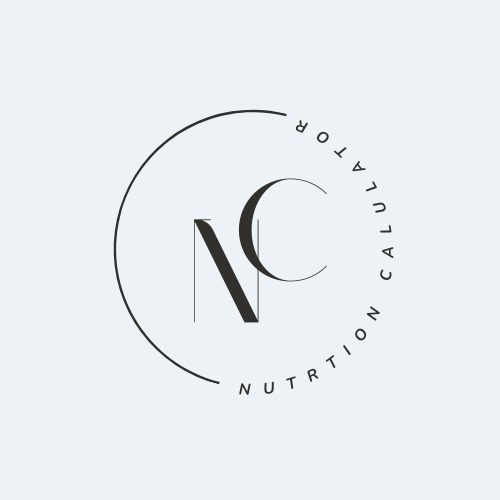
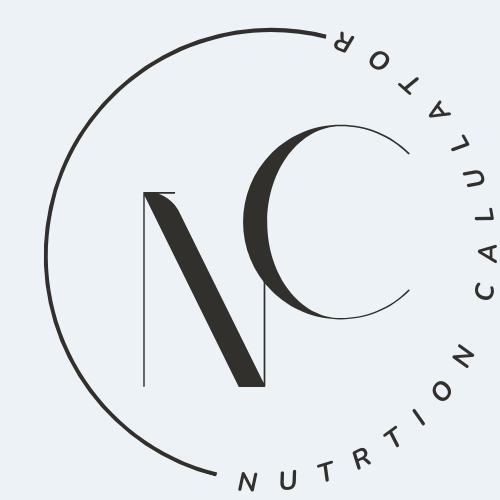
fixed popover

diff --git a/frontend/src/components/Common/SidebarItems.tsx b/frontend/src/components/Common/SidebarItems.tsx
@@ -1,15 +1,33 @@
-import { Box, Flex, Icon, Text, useColorModeValue } from "@chakra-ui/react"
+import {
+  Box,
+  Flex,
+  Icon,
+  Text,
+  useColorModeValue,
+  Image,
+  Container
+} from "@chakra-ui/react";
 import { useQueryClient } from "@tanstack/react-query"
 import { Link } from "@tanstack/react-router"
-import { FiBriefcase, FiHome, FiSettings, FiUsers } from "react-icons/fi"
-import Logo from "/assets/images/n_.png";
+import {
+  FiBriefcase,
+  FiHome,
+  FiSettings,
+  FiUsers,
+} from "react-icons/fi";
+import Logo from "../../../public/assets/images/n_c.png";
 import type { UserPublic } from "../../client"
-
 const items = [
-  { icon: FiHome, title: "Dashboard", path: "/" },
-  { icon: FiBriefcase, title: "Items", path: "/items" },
-  { icon: FiSettings, title: "User Settings", path: "/settings" },
-]
+  { icon: FiHome, title: "Dashboard", path: "/",},
+  { icon: FiBriefcase, title: "Items", path: "/items",},
+  {
+    icon: FiSettings,
+    title: "User Settings",
+    path: "/settings",
+   
+  },
+  
+];
 
 interface SidebarItemsProps {
   onClose?: () => void
@@ -20,13 +38,13 @@ const SidebarItems = ({ onClose }: SidebarItemsProps) => {
   const textColor = useColorModeValue("ui.main", "ui.light")
   const bgActive = useColorModeValue("#E2E8F0", "#4A5568")
   const currentUser = queryClient.getQueryData<UserPublic>(["currentUser"])
-
   const finalItems = currentUser?.is_superuser
     ? [...items, { icon: FiUsers, title: "Admin", path: "/admin" }]
     : items
 
   const listItems = finalItems.map(({ icon, title, path }) => (
     <Flex
+      
       as={Link}
       to={path}
       w="100%"
@@ -35,24 +53,28 @@ const SidebarItems = ({ onClose }: SidebarItemsProps) => {
       activeProps={{
         style: {
           background: bgActive,
-          borderRadius: "12px",
         },
       }}
       color={textColor}
       onClick={onClose}
     >
-      
       <Text fontFamily="cursive" fontSize={"large"} ml={2}>
-        {title}
+        <Icon as={icon}></Icon>
+        {" " + title}
       </Text>
     </Flex>
   ));
 
   return (
     <>
-      <Box>{listItems}</Box>
+      <Box >
+        <Container>
+          <Image maxW={200} maxH={200} src={Logo} alt="logo" p={6} />
+        </Container>
+        {listItems}
+      </Box>
     </>
-  )
+  );
 }
 
 export default SidebarItems

diff --git a/frontend/src/routes/_layout/settings.tsx b/frontend/src/routes/_layout/settings.tsx
@@ -11,7 +11,6 @@ import { useQueryClient } from "@tanstack/react-query"
 import { createFileRoute } from "@tanstack/react-router"
 
 import type { UserPublic } from "../../client"
-import Appearance from "../../components/UserSettings/Appearance"
 import ChangePassword from "../../components/UserSettings/ChangePassword"
 import DeleteAccount from "../../components/UserSettings/DeleteAccount"
 import UserInformation from "../../components/UserSettings/UserInformation"
@@ -19,7 +18,6 @@ import UserInformation from "../../components/UserSettings/UserInformation"
 const tabsConfig = [
   { title: "My profile", component: UserInformation },
   { title: "Password", component: ChangePassword },
-  { title: "Appearance", component: Appearance },
   { title: "Danger zone", component: DeleteAccount },
 ]
 
@@ -36,7 +34,7 @@ function UserSettings() {
 
   return (
     <Container maxW="full">
-      <Heading size="lg" textAlign={{ base: "center", md: "left" }} py={12}>
+      <Heading fontFamily="cursive" size="lg" textAlign={{ base: "center", md: "left" }} py={12}>
         User Settings
       </Heading>
       <Tabs variant="enclosed">

diff --git a/frontend/src/components/Common/UserMenu.tsx b/frontend/src/components/Common/UserMenu.tsx
@@ -37,16 +37,15 @@ const UserMenu = () => {
             isRound
             data-testid="user-menu"
           />
-          <MenuList fontSize="large" fontFamily="cursive">
+          <MenuList bg="#edf2f7" fontSize="large" fontFamily="cursive">
             <SidebarItems></SidebarItems>
-            <MenuItem icon={<FiUser fontSize="18px" />} as={Link} to="settings">
-              My profile
-            </MenuItem>
+
             <MenuItem
               icon={<FiLogOut fontSize="18px" />}
               onClick={handleLogout}
               color="ui.danger"
               fontWeight="bold"
+              bg="#edf2f7"
             >
               Log out
             </MenuItem>
